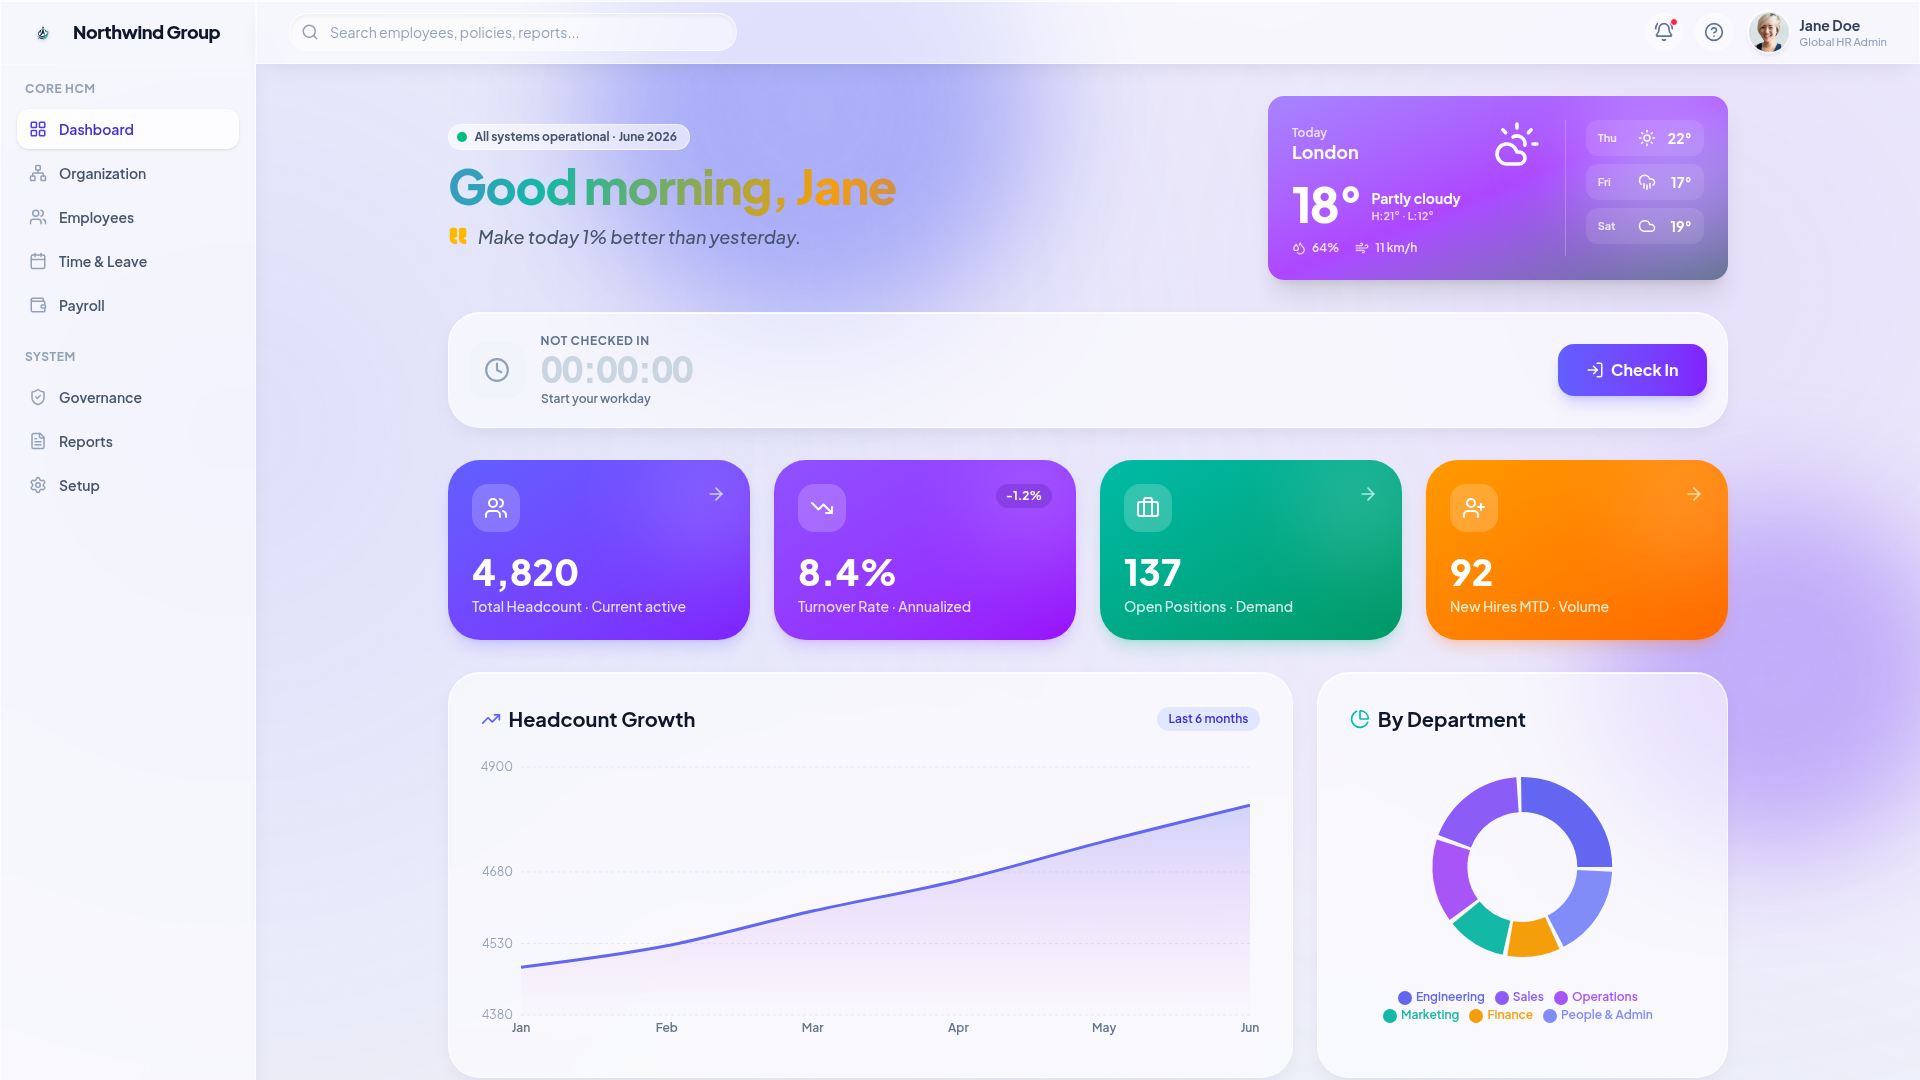
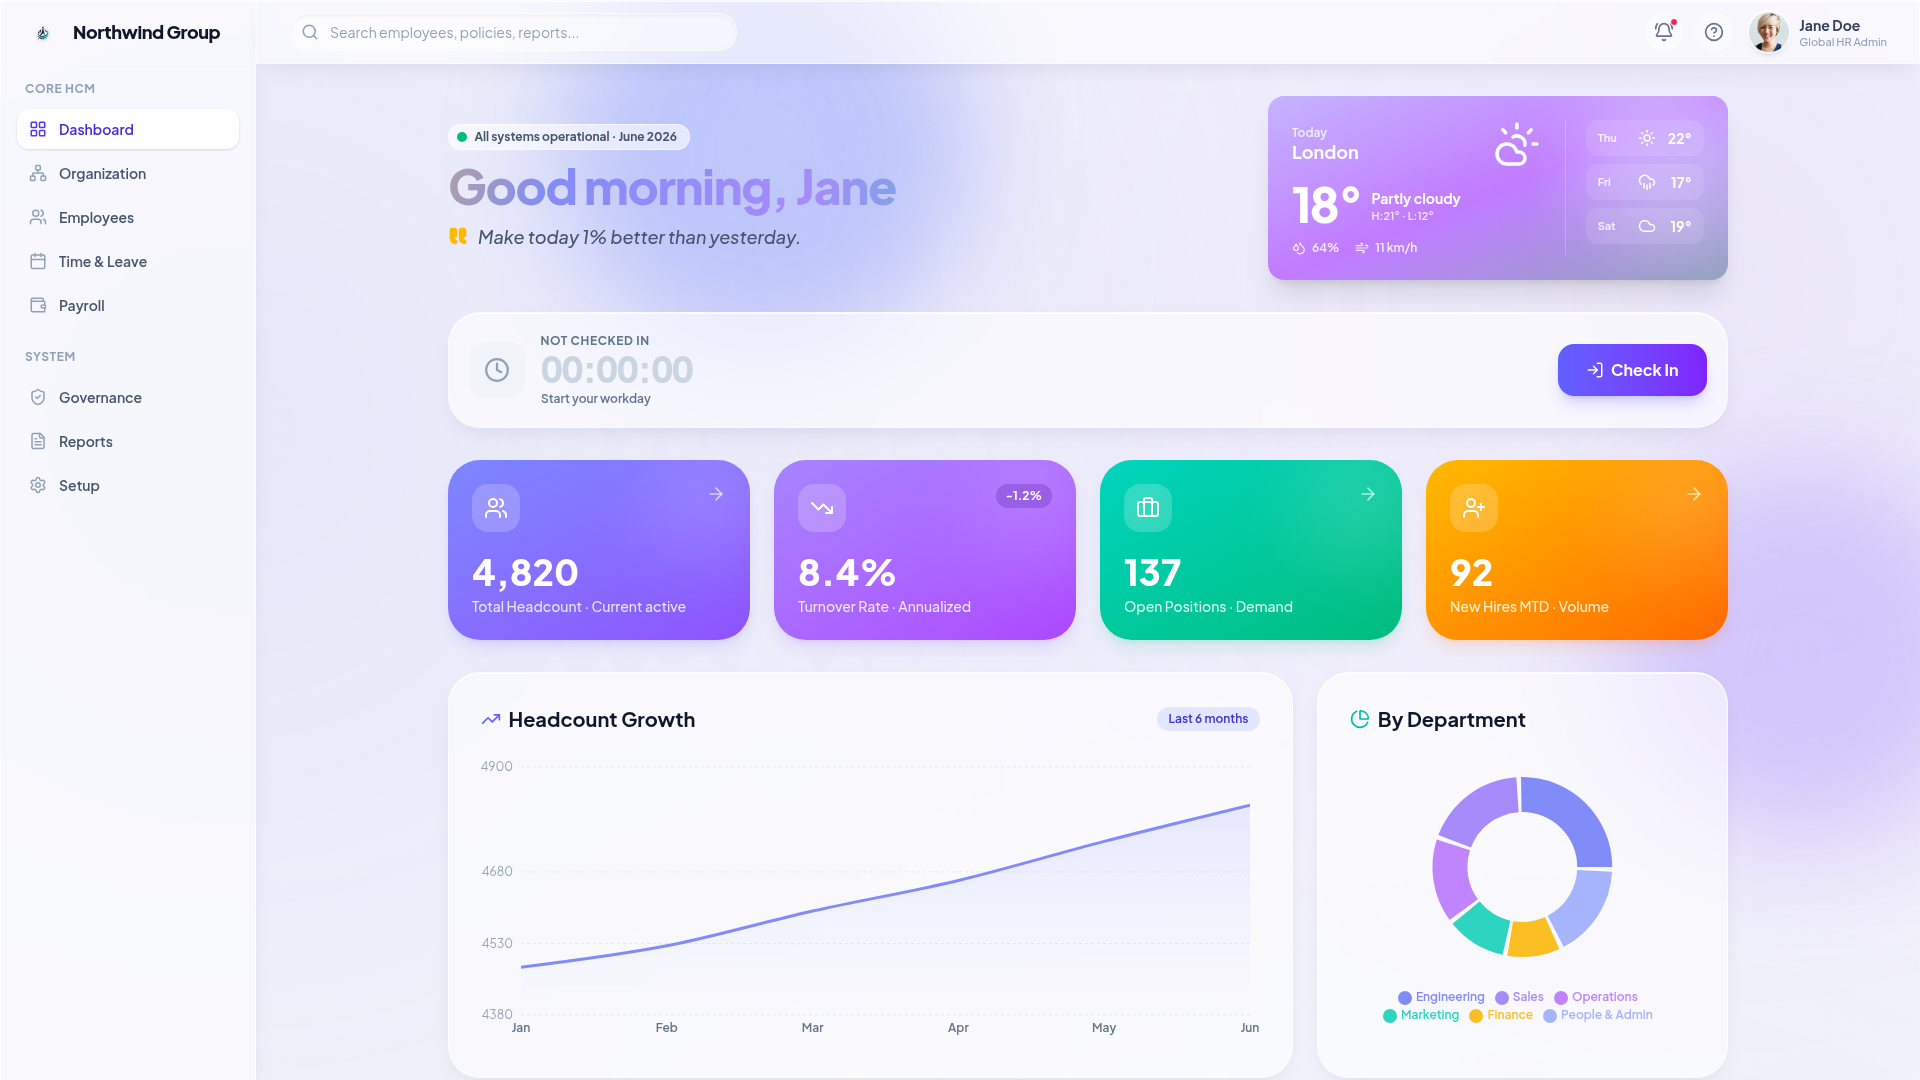
Soften color palette and adjust weather theme for a lighter appearance
Update color stops in Dashboard.tsx and _group.css for softer gradients, lighter blob backgrounds, and a revised sunny weather theme, reducing overall color density.

Replit-Commit-Author: Agent
Replit-Commit-Session-Id: 4e185bfa-7984-477e-87ea-a35de27cbb4c
Replit-Commit-Checkpoint-Type: full_checkpoint
Replit-Commit-Event-Id: 42814ce5-0a1d-4244-82aa-54b475517b40
Replit-Commit-Screenshot-Url: https://storage.googleapis.com/screenshot-production-us-central1/4ba3be44-b2b7-437a-b9c0-b3eb791af892/4e185bfa-7984-477e-87ea-a35de27cbb4c/UuCX2g5
Replit-Helium-Checkpoint-Created: true

diff --git a/artifacts/mockup-sandbox/src/components/mockups/fusion-balanced/Dashboard.tsx b/artifacts/mockup-sandbox/src/components/mockups/fusion-balanced/Dashboard.tsx
@@ -67,14 +67,14 @@ const weatherThemes = {
   sunny: {
     label: "Sunny",
     Icon: Sun,
-    gradient: "from-fuchsia-400 via-purple-500 to-violet-600",
-    glow: "bg-fuchsia-300/50",
+    gradient: "from-amber-300 via-orange-400 to-orange-500",
+    glow: "bg-amber-300/50",
   },
   "partly-cloudy": {
     label: "Partly cloudy",
     Icon: CloudSun,
-    gradient: "from-violet-400 via-purple-500 to-slate-500",
-    glow: "bg-violet-300/50",
+    gradient: "from-violet-300 via-purple-400 to-slate-400",
+    glow: "bg-violet-200/50",
   },
   cloudy: {
     label: "Cloudy",
@@ -199,12 +199,12 @@ const activityIcon: Record<string, string> = {
 };
 
 const CHART_COLORS = [
-  "#6366f1",
-  "#8b5cf6",
-  "#a855f7",
-  "#14b8a6",
-  "#f59e0b",
   "#818cf8",
+  "#a78bfa",
+  "#c084fc",
+  "#2dd4bf",
+  "#fbbf24",
+  "#a5b4fc",
 ];
 
 const headcountTrend = [
@@ -332,15 +332,15 @@ export function Dashboard() {
       <div className="absolute inset-0 overflow-hidden pointer-events-none z-0" aria-hidden="true">
         <div
           className="fusion-blob"
-          style={{ width: 420, height: 420, top: -80, left: "30%", background: "radial-gradient(circle, #818cf8, #6366f1)" }}
+          style={{ width: 420, height: 420, top: -80, left: "30%", background: "radial-gradient(circle, #a5b4fc, #818cf8)" }}
         />
         <div
           className="fusion-blob fusion-blob-2"
-          style={{ width: 360, height: 360, top: "20%", right: "-60px", background: "radial-gradient(circle, #a78bfa, #8b5cf6)" }}
+          style={{ width: 360, height: 360, top: "20%", right: "-60px", background: "radial-gradient(circle, #c4b5fd, #a78bfa)" }}
         />
         <div
           className="fusion-blob fusion-blob-3"
-          style={{ width: 380, height: 380, bottom: "-100px", left: "20%", background: "radial-gradient(circle, #5eead4, #14b8a6)" }}
+          style={{ width: 380, height: 380, bottom: "-100px", left: "20%", background: "radial-gradient(circle, #99f6e4, #2dd4bf)" }}
         />
       </div>
 
@@ -586,7 +586,7 @@ export function Dashboard() {
             {/* Vivid bento KPI tiles (Bento) */}
             <div className="grid grid-cols-1 md:grid-cols-2 xl:grid-cols-4 gap-6">
               {/* KPI 1 */}
-              <div className="bg-gradient-to-br from-indigo-500 to-violet-600 text-white rounded-[2rem] p-6 fusion-hover flex flex-col justify-between h-[180px] shadow-lg shadow-indigo-500/20 relative overflow-hidden group">
+              <div className="bg-gradient-to-br from-indigo-400 to-violet-500 text-white rounded-[2rem] p-6 fusion-hover flex flex-col justify-between h-[180px] shadow-lg shadow-indigo-500/15 relative overflow-hidden group">
                 <div className="absolute -right-6 -top-6 w-32 h-32 bg-white/15 rounded-full blur-2xl group-hover:scale-150 transition-transform duration-500" />
                 <div className="flex justify-between items-start relative z-10">
                   <div className="p-3 bg-white/20 rounded-2xl backdrop-blur-sm">
@@ -602,7 +602,7 @@ export function Dashboard() {
                 </div>
               </div>
               {/* KPI 2 */}
-              <div className="bg-gradient-to-br from-violet-500 to-purple-600 text-white rounded-[2rem] p-6 fusion-hover flex flex-col justify-between h-[180px] shadow-lg shadow-violet-500/20 relative overflow-hidden group">
+              <div className="bg-gradient-to-br from-violet-400 to-purple-500 text-white rounded-[2rem] p-6 fusion-hover flex flex-col justify-between h-[180px] shadow-lg shadow-violet-500/15 relative overflow-hidden group">
                 <div className="absolute -right-6 -top-6 w-32 h-32 bg-white/15 rounded-full blur-2xl group-hover:scale-150 transition-transform duration-500" />
                 <div className="flex justify-between items-start relative z-10">
                   <div className="p-3 bg-white/20 rounded-2xl backdrop-blur-sm">
@@ -620,7 +620,7 @@ export function Dashboard() {
                 </div>
               </div>
               {/* KPI 3 */}
-              <div className="bg-gradient-to-br from-teal-500 to-emerald-600 text-white rounded-[2rem] p-6 fusion-hover flex flex-col justify-between h-[180px] shadow-lg shadow-emerald-500/20 relative overflow-hidden group">
+              <div className="bg-gradient-to-br from-teal-400 to-emerald-500 text-white rounded-[2rem] p-6 fusion-hover flex flex-col justify-between h-[180px] shadow-lg shadow-emerald-500/15 relative overflow-hidden group">
                 <div className="absolute -right-6 -top-6 w-32 h-32 bg-white/15 rounded-full blur-2xl group-hover:scale-150 transition-transform duration-500" />
                 <div className="flex justify-between items-start relative z-10">
                   <div className="p-3 bg-white/20 rounded-2xl backdrop-blur-sm">
@@ -636,7 +636,7 @@ export function Dashboard() {
                 </div>
               </div>
               {/* KPI 4 */}
-              <div className="bg-gradient-to-br from-amber-500 to-orange-500 text-white rounded-[2rem] p-6 fusion-hover flex flex-col justify-between h-[180px] shadow-lg shadow-orange-500/20 relative overflow-hidden group">
+              <div className="bg-gradient-to-br from-amber-400 to-orange-500 text-white rounded-[2rem] p-6 fusion-hover flex flex-col justify-between h-[180px] shadow-lg shadow-orange-500/15 relative overflow-hidden group">
                 <div className="absolute -right-6 -top-6 w-32 h-32 bg-white/15 rounded-full blur-2xl group-hover:scale-150 transition-transform duration-500" />
                 <div className="flex justify-between items-start relative z-10">
                   <div className="p-3 bg-white/20 rounded-2xl backdrop-blur-sm">
@@ -680,8 +680,8 @@ export function Dashboard() {
                           x2="0"
                           y2="1"
                         >
-                          <stop offset="5%" stopColor="#6366f1" stopOpacity={0.4} />
-                          <stop offset="95%" stopColor="#d946ef" stopOpacity={0.02} />
+                          <stop offset="5%" stopColor="#818cf8" stopOpacity={0.25} />
+                          <stop offset="95%" stopColor="#a5b4fc" stopOpacity={0.02} />
                         </linearGradient>
                       </defs>
                       <CartesianGrid
@@ -713,7 +713,7 @@ export function Dashboard() {
                       <Area
                         type="monotone"
                         dataKey="headcount"
-                        stroke="#6366f1"
+                        stroke="#818cf8"
                         strokeWidth={3}
                         fill="url(#fusionHeadcount)"
                       />
@@ -775,10 +775,10 @@ export function Dashboard() {
                   </h2>
                   <div className="flex items-center gap-4 text-xs font-semibold text-slate-500">
                     <span className="flex items-center gap-1.5">
-                      <span className="w-3 h-3 rounded-full bg-indigo-500" /> Hires
+                      <span className="w-3 h-3 rounded-full bg-indigo-400" /> Hires
                     </span>
                     <span className="flex items-center gap-1.5">
-                      <span className="w-3 h-3 rounded-full bg-amber-400" /> Exits
+                      <span className="w-3 h-3 rounded-full bg-amber-300" /> Exits
                     </span>
                   </div>
                 </div>
@@ -817,13 +817,13 @@ export function Dashboard() {
                       />
                       <Bar
                         dataKey="hires"
-                        fill="#6366f1"
+                        fill="#818cf8"
                         radius={[8, 8, 0, 0]}
                         maxBarSize={34}
                       />
                       <Bar
                         dataKey="exits"
-                        fill="#f59e0b"
+                        fill="#fbbf24"
                         radius={[8, 8, 0, 0]}
                         maxBarSize={34}
                       />

diff --git a/artifacts/mockup-sandbox/src/components/mockups/fusion-balanced/_group.css b/artifacts/mockup-sandbox/src/components/mockups/fusion-balanced/_group.css
@@ -10,10 +10,10 @@
   position: absolute;
   top: 0; right: 0; bottom: 0; left: 0;
   background:
-    radial-gradient(circle at 12% 18%, rgba(99, 102, 241, 0.16) 0%, transparent 45%),
-    radial-gradient(circle at 88% 12%, rgba(139, 92, 246, 0.15) 0%, transparent 45%),
-    radial-gradient(circle at 78% 82%, rgba(20, 184, 166, 0.12) 0%, transparent 45%),
-    radial-gradient(circle at 22% 88%, rgba(245, 158, 11, 0.10) 0%, transparent 45%);
+    radial-gradient(circle at 12% 18%, rgba(99, 102, 241, 0.11) 0%, transparent 45%),
+    radial-gradient(circle at 88% 12%, rgba(139, 92, 246, 0.10) 0%, transparent 45%),
+    radial-gradient(circle at 78% 82%, rgba(20, 184, 166, 0.08) 0%, transparent 45%),
+    radial-gradient(circle at 22% 88%, rgba(245, 158, 11, 0.07) 0%, transparent 45%);
   pointer-events: none;
   z-index: 0;
 }
@@ -71,7 +71,7 @@
   background-clip: text;
   -webkit-background-clip: text;
   -webkit-text-fill-color: transparent;
-  background-image: linear-gradient(110deg, #6366f1, #8b5cf6, #14b8a6, #f59e0b, #6366f1);
+  background-image: linear-gradient(110deg, #818cf8, #a78bfa, #2dd4bf, #fbbf24, #818cf8);
   background-size: 250% auto;
   animation: fusion-shimmer 6s linear infinite;
 }
